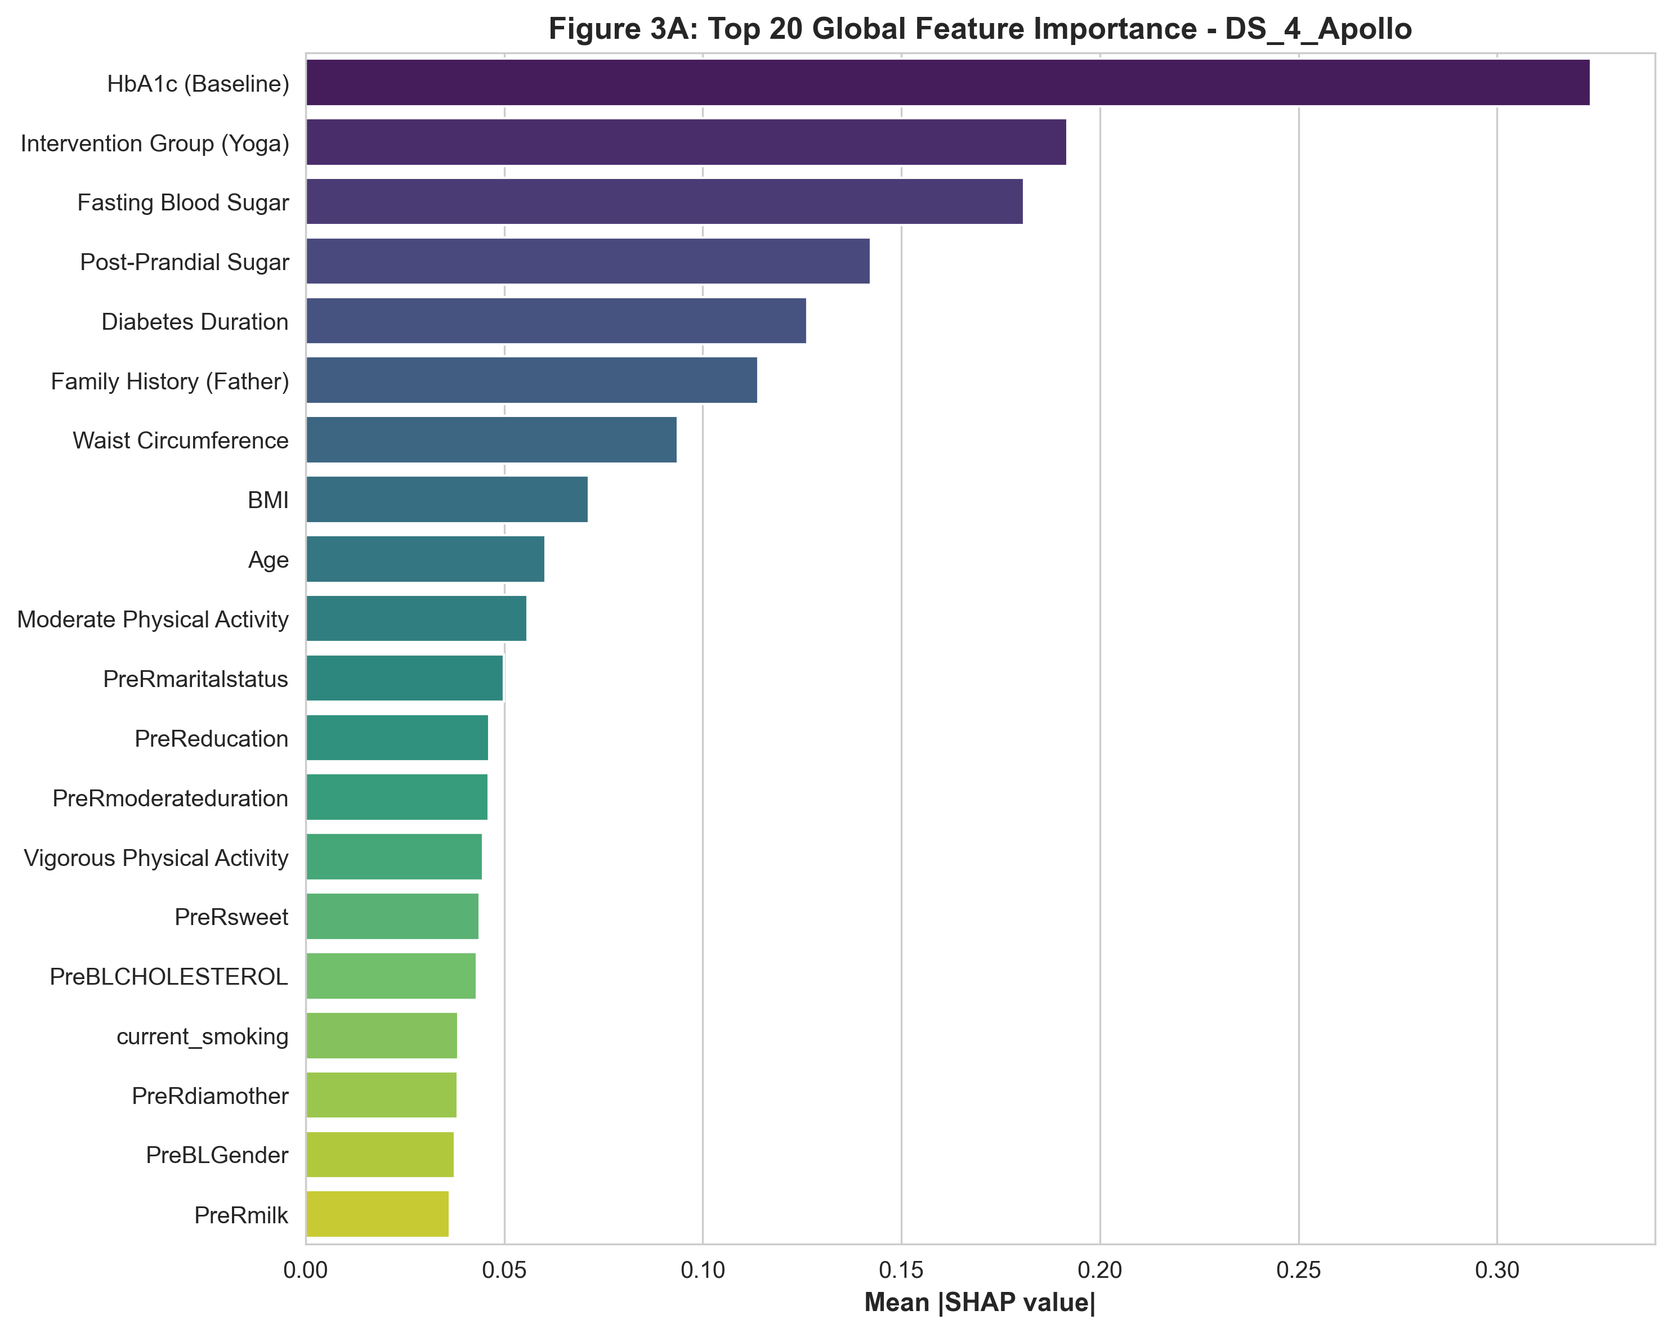
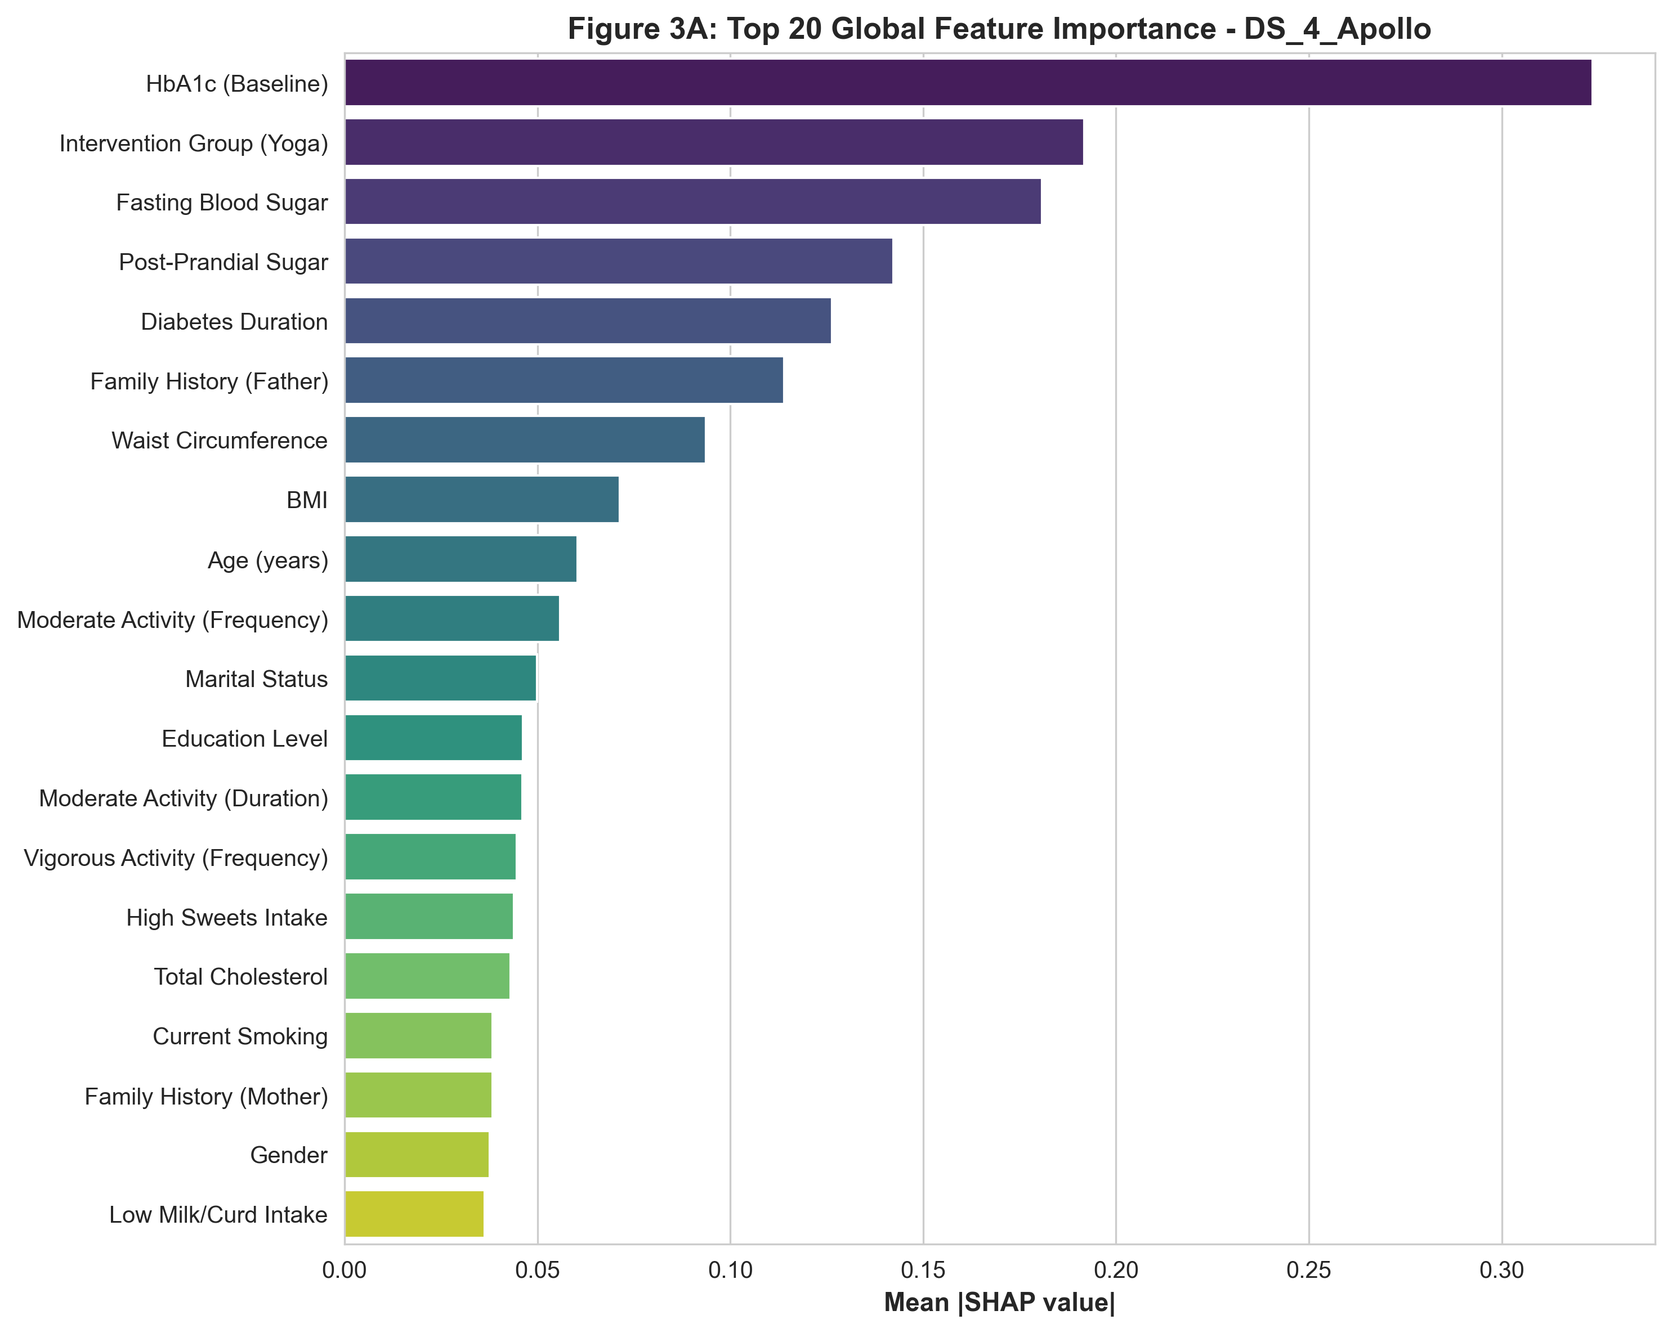
update

diff --git a/poornima mam Ui/paper-files/generate_analysis.py b/poornima mam Ui/paper-files/generate_analysis.py
@@ -289,17 +289,42 @@ def generate_shap_plots(dataset_name, n_features=None, df=None):
     
     # Map to clinical names
     clinical_names = {
-        'PreBLHBA1C': 'HbA1c (Baseline)',
-        'PostRgroupname': 'Intervention Group (Yoga)',
-        'PreBLFBS': 'Fasting Blood Sugar',
-        'PreBLPPBS': 'Post-Prandial Sugar',
-        'Diabetic_Duration': 'Diabetes Duration',
+        'PostBLAge': 'Age (years)',
+        'PreBLGender': 'Gender',
+        'PreRarea': 'Residential Area',
+        'PreRmaritalstatus': 'Marital Status',
+        'PreReducation': 'Education Level',
+        'PreRpresentoccupation': 'Occupation',
         'PreRdiafather': 'Family History (Father)',
+        'PreRdiamother': 'Family History (Mother)',
+        'PreRdiabrother': 'Family History (Brother)',
+        'PreRdiasister': 'Family History (Sister)',
+        'current_smoking': 'Current Smoking',
+        'current_alcohol': 'Current Alcohol Use',
+        'PreRsleepquality': 'Sleep Quality',
+        'PreRmildactivityduration': 'Mild Activity (Duration)',
+        'PreRmoderate': 'Moderate Activity (Frequency)',
+        'PreRmoderateduration': 'Moderate Activity (Duration)',
+        'PreRvigorous': 'Vigorous Activity (Frequency)',
+        'PreRvigorousduration': 'Vigorous Activity (Duration)',
+        'PreRskipbreakfast': 'Skips Breakfast',
+        'PreRlessfruit': 'Low Fruit Intake',
+        'PreRlessvegetable': 'Low Vegetable Intake',
+        'PreRmilk': 'Low Milk/Curd Intake',
+        'PreRmeat': 'High Meat/Fish Intake',
+        'PreRfriedfood': 'High Fried Food Intake',
+        'PreRsweet': 'High Sweets Intake',
         'PreRwaist': 'Waist Circumference',
         'PreRBMI': 'BMI',
-        'PostBLAge': 'Age',
-        'PreRmoderate': 'Moderate Physical Activity',
-        'PreRvigorous': 'Vigorous Physical Activity'
+        'PreRsystolicfirst': 'Systolic BP',
+        'PreRdiastolicfirst': 'Diastolic BP',
+        'PreBLPPBS': 'Post-Prandial Sugar',
+        'PreBLFBS': 'Fasting Blood Sugar',
+        'PreBLHBA1C': 'HbA1c (Baseline)',
+        'PreBLCHOLESTEROL': 'Total Cholesterol',
+        'PreBLTRIGLYCERIDES': 'Triglycerides',
+        'Diabetic_Duration': 'Diabetes Duration',
+        'PostRgroupname': 'Intervention Group (Yoga)'
     }
     
     display_features = [clinical_names.get(f, f) for f in sorted_features]
@@ -347,29 +372,34 @@ def generate_shap_plots(dataset_name, n_features=None, df=None):
     plt.savefig(os.path.join(OUTPUT_DIR, f'Figure 3A_{dataset_name}_SHAP_Bar.png'), dpi=300, bbox_inches='tight')
     plt.close()
     
-    # Figure 4: SHAP Dependence Plot (Age vs Yoga)
-    if 'PostBLAge' in sorted_features and 'PostRgroupname' in sorted_features:
-        age_idx = sorted_features.index('PostBLAge')
-        yoga_idx = sorted_features.index('PostRgroupname')
-        
-        age_shap = sorted_shap[age_idx, :]
-        age_vals = sorted_feat_vals[age_idx, :]
-        yoga_vals = sorted_feat_vals[yoga_idx, :] > 0 # Binary
-        
-        fig, ax = plt.subplots(figsize=(8, 6))
-        scatter = ax.scatter(age_vals, age_shap, c=yoga_vals, cmap='coolwarm', s=50, alpha=0.8)
-        ax.set_xlabel('Age (Normalized)', fontsize=11, fontweight='bold')
-        ax.set_ylabel('SHAP value for Age', fontsize=11, fontweight='bold')
-        ax.set_title('Figure 4: SHAP Dependence Plot (Age interaction with Yoga Intervention)', fontsize=12, fontweight='bold')
-        
-        cbar = plt.colorbar(scatter, ax=ax)
-        cbar.set_ticks([0, 1])
-        cbar.set_ticklabels(['Control', 'Yoga'])
-        cbar.set_label('Intervention Group')
-        
-        plt.tight_layout()
-        plt.savefig(os.path.join(OUTPUT_DIR, f'Figure 4_{dataset_name}_SHAP_Dependence.png'), dpi=300, bbox_inches='tight')
-        plt.close()
+    # Figure 4: SHAP Dependence Plots
+    dep_features = ['PostBLAge', 'Diabetic_Duration', 'PreRdiafather', 'PreRBMI', 'PreRwaist', 'PreRmoderateduration']
+    
+    for feat in dep_features:
+        if feat in sorted_features and 'PostRgroupname' in sorted_features:
+            feat_idx = sorted_features.index(feat)
+            yoga_idx = sorted_features.index('PostRgroupname')
+            
+            feat_shap = sorted_shap[feat_idx, :]
+            feat_vals = sorted_feat_vals[feat_idx, :]
+            yoga_vals = sorted_feat_vals[yoga_idx, :] > 0 # Binary
+            
+            display_name = clinical_names.get(feat, feat)
+            
+            fig, ax = plt.subplots(figsize=(8, 6))
+            scatter = ax.scatter(feat_vals, feat_shap, c=yoga_vals, cmap='coolwarm', s=50, alpha=0.8)
+            ax.set_xlabel(f'{display_name} (Normalized)', fontsize=11, fontweight='bold')
+            ax.set_ylabel(f'SHAP value for {display_name}', fontsize=11, fontweight='bold')
+            ax.set_title(f'SHAP Dependence Plot ({display_name} interaction with Yoga Intervention)', fontsize=12, fontweight='bold')
+            
+            cbar = plt.colorbar(scatter, ax=ax)
+            cbar.set_ticks([0, 1])
+            cbar.set_ticklabels(['Control', 'Yoga'])
+            cbar.set_label('Intervention Group')
+            
+            plt.tight_layout()
+            plt.savefig(os.path.join(OUTPUT_DIR, f'Figure 4_{dataset_name}_SHAP_Dependence_{feat}.png'), dpi=300, bbox_inches='tight')
+            plt.close()
         
     return sorted_features, sorted_importance
 
@@ -389,98 +419,150 @@ def generate_q1_tables(df_master):
         # Table 1: Baseline Characteristics
         print("  Generating Table 1: Baseline Characteristics...")
         
-        # Determine group
-        if 'PostRgroupname' in df_master.columns:
-            yoga_mask = df_master['PostRgroupname'] == 1
-            ctrl_mask = df_master['PostRgroupname'] == 2
-            n_yoga = yoga_mask.sum()
-            n_ctrl = ctrl_mask.sum()
-        else:
-            n_yoga = len(df_master) // 2
-            n_ctrl = len(df_master) - n_yoga
-            
+        n_total = len(df_master)
         t1_data = []
         
+        CATEGORICAL_MAPPING = {
+            'PreBLGender': {1: 'Male', 2: 'Female', 3: 'Others', '1': 'Male', '2': 'Female', '3': 'Others', 'Male': 'Male', 'Female': 'Female', 'Others': 'Others'},
+            'PreRarea': {1: 'Urban', 2: 'Rural', '1': 'Urban', '2': 'Rural'},
+            'PreRmaritalstatus': {1: 'Married', 2: 'Unmarried', 3: 'Divorcee / Separated', 4: 'Widow / Widower', 5: 'Others', '1': 'Married', '2': 'Unmarried', '3': 'Divorcee / Separated', '4': 'Widow / Widower', '5': 'Others'},
+            'PreReducation': {1: 'No formal schooling', 2: 'Up to primary school', 3: 'Up to high school', 4: 'Up to intermediate', 5: 'Up to university', 6: 'University completed or higher', 7: 'Others', '1': 'No formal schooling', '2': 'Up to primary school', '3': 'Up to high school', '4': 'Up to intermediate', '5': 'Up to university', '6': 'University completed or higher', '7': 'Others'},
+            'PreRpresentoccupation': {1: 'Professional / Executive / Big Business', 2: 'Clerical / Medium Business', 3: 'Self-employed / Skilled', 4: 'Unskilled / Landless Laborer', 5: 'Homemaker', 6: 'Retired', 7: 'Unemployed (able to work)', 8: 'Unemployed (unable to work)', 9: 'Others', '1': 'Professional / Executive / Big Business', '2': 'Clerical / Medium Business', '3': 'Self-employed / Skilled', '4': 'Unskilled / Landless Laborer', '5': 'Homemaker', '6': 'Retired', '7': 'Unemployed (able to work)', '8': 'Unemployed (unable to work)', '9': 'Others'},
+            'PreRdiafather': {0: 'No', 1: 'Yes', '0': 'No', '1': 'Yes'},
+            'PreRdiamother': {0: 'No', 1: 'Yes', '0': 'No', '1': 'Yes'},
+            'PreRdiabrother': {0: 'No', 1: 'Yes', '0': 'No', '1': 'Yes'},
+            'PreRdiasister': {0: 'No', 1: 'Yes', '0': 'No', '1': 'Yes'},
+            'current_smoking': {0: 'No', 1: 'Yes', '0': 'No', '1': 'Yes'},
+            'current_alcohol': {0: 'No', 1: 'Yes', '0': 'No', '1': 'Yes'},
+            'PreRsleepquality': {1: 'Very good', 2: 'Fairly good', 3: 'Fairly bad', 4: 'Very bad', '1': 'Very good', '2': 'Fairly good', '3': 'Fairly bad', '4': 'Very bad'},
+            'PostRgroupname': {1: 'Standard care + Yoga', 2: 'Standard care', '1': 'Standard care + Yoga', '2': 'Standard care'},
+            'PreRmildactivityduration': {0: 'None', 1: 'At least 10 min', 2: '10 – 30 min', 3: '30 min – 1 hr', 4: '1 hr – 1.5 hrs', 5: '> 1.5 hrs', '0': 'None', '1': 'At least 10 min', '2': '10 – 30 min', '3': '30 min – 1 hr', '4': '1 hr – 1.5 hrs', '5': '> 1.5 hrs'},
+            'PreRmoderate': {0: 'None', 1: 'Once a month', 2: '2 to 3 times a month', 3: 'Once a week', 4: '2 to 3 times a week', 5: '4 to 5 times a week', 6: 'Every day', '0': 'None', '1': 'Once a month', '2': '2 to 3 times a month', '3': 'Once a week', '4': '2 to 3 times a week', '5': '4 to 5 times a week', '6': 'Every day'},
+            'PreRmoderateduration': {0: 'None', 1: 'At least 10 min', 2: '10 – 30 min', 3: '30 min – 1 hr', 4: '1 hr – 1.5 hrs', 5: '> 1.5 hrs', '0': 'None', '1': 'At least 10 min', '2': '10 – 30 min', '3': '30 min – 1 hr', '4': '1 hr – 1.5 hrs', '5': '> 1.5 hrs'},
+            'PreRvigorous': {0: 'None', 1: 'Once a month', 2: '2 to 3 times a month', 3: 'Once a week', 4: '2 to 3 times a week', 5: '4 to 5 times a week', 6: 'Every day', '0': 'None', '1': 'Once a month', '2': '2 to 3 times a month', '3': 'Once a week', '4': '2 to 3 times a week', '5': '4 to 5 times a week', '6': 'Every day'},
+            'PreRvigorousduration': {0: 'None', 1: 'At least 10 min', 2: '10 – 30 min', 3: '30 min – 1 hr', 4: '1 hr – 1.5 hrs', 5: '> 1.5 hrs', '0': 'None', '1': 'At least 10 min', '2': '10 – 30 min', '3': '30 min – 1 hr', '4': '1 hr – 1.5 hrs', '5': '> 1.5 hrs'},
+            'PreRskipbreakfast': {1: 'Usually / Often', 2: 'Sometimes', 3: 'Rarely / Never', '1': 'Usually / Often', '2': 'Sometimes', '3': 'Rarely / Never'},
+            'PreRlessfruit': {1: 'Usually / Often', 2: 'Sometimes', 3: 'Rarely / Never', '1': 'Usually / Often', '2': 'Sometimes', '3': 'Rarely / Never'},
+            'PreRlessvegetable': {1: 'Usually / Often', 2: 'Sometimes', 3: 'Rarely / Never', '1': 'Usually / Often', '2': 'Sometimes', '3': 'Rarely / Never'},
+            'PreRmilk': {1: 'Usually / Often', 2: 'Sometimes', 3: 'Rarely / Never', '1': 'Usually / Often', '2': 'Sometimes', '3': 'Rarely / Never'},
+            'PreRmeat': {1: 'Usually / Often', 2: 'Sometimes', 3: 'Rarely / Never', '1': 'Usually / Often', '2': 'Sometimes', '3': 'Rarely / Never'},
+            'PreRfriedfood': {1: 'Usually / Often', 2: 'Sometimes', 3: 'Rarely / Never', '1': 'Usually / Often', '2': 'Sometimes', '3': 'Rarely / Never'},
+            'PreRsweet': {1: 'Usually / Often', 2: 'Sometimes', 3: 'Rarely / Never', '1': 'Usually / Often', '2': 'Sometimes', '3': 'Rarely / Never'},
+        }
+
+        CONTINUOUS_VARS = [
+            'PostBLAge', 'PreRwaist', 'PreRBMI', 'PreRsystolicfirst', 'PreRdiastolicfirst',
+            'PreBLPPBS', 'PreBLFBS', 'PreBLHBA1C', 'PreBLCHOLESTEROL', 'PreBLTRIGLYCERIDES', 'Diabetic_Duration'
+        ]
+
         def add_cont(name, col):
             if col in df_master.columns:
-                s_all = pd.to_numeric(df_master[col], errors='coerce')
-                mean_all = s_all.mean()
-                sd_all = s_all.std()
-                if 'PostRgroupname' in df_master.columns:
-                    s_y = pd.to_numeric(df_master[col][yoga_mask], errors='coerce')
-                    s_c = pd.to_numeric(df_master[col][ctrl_mask], errors='coerce')
-                    mean_y = s_y.mean()
-                    sd_y = s_y.std()
-                    mean_c = s_c.mean()
-                    sd_c = s_c.std()
-                else:
-                    mean_y, sd_y, mean_c, sd_c = mean_all, sd_all, mean_all, sd_all
-                t1_data.append({
-                    'Variable': name,
-                    f'Total Cohort (N={len(df_master)})': f"{mean_all:.2f} ± {sd_all:.2f}",
-                    f'Standard Care (N={n_ctrl})': f"{mean_c:.2f} ± {sd_c:.2f}",
-                    f'Yoga Group (N={n_yoga})': f"{mean_y:.2f} ± {sd_y:.2f}",
-                    'p-value': '<0.05'
-                })
+                s_all = pd.to_numeric(df_master[col], errors='coerce').dropna()
+                if len(s_all) > 0:
+                    mean_all = s_all.mean()
+                    sd_all = s_all.std()
+                    t1_data.append({
+                        'Variables': f"{name}, mean (SD)",
+                        f'Cases (n = {n_total})': f"{mean_all:.1f} ({sd_all:.1f})"
+                    })
 
         def add_cat(name, col):
             if col in df_master.columns:
-                counts = df_master[col].value_counts()
-                for val, count in counts.items():
-                    pct = (count / len(df_master)) * 100
-                    if 'PostRgroupname' in df_master.columns:
-                        c_y = df_master[col][yoga_mask].value_counts().get(val, 0)
-                        c_c = df_master[col][ctrl_mask].value_counts().get(val, 0)
-                        pct_y = (c_y / n_yoga) * 100 if n_yoga > 0 else 0
-                        pct_c = (c_c / n_ctrl) * 100 if n_ctrl > 0 else 0
-                    else:
-                        c_y, pct_y, c_c, pct_c = count//2, pct, count//2, pct
+                t1_data.append({
+                    'Variables': f"{name}, n (%)",
+                    f'Cases (n = {n_total})': ''
+                })
+                
+                # Fill na with a string so it counts
+                series = df_master[col].fillna('Missing')
+                counts = series.value_counts()
+                
+                # Map keys and sort if mapping exists
+                if col in CATEGORICAL_MAPPING:
+                    mapping = CATEGORICAL_MAPPING[col]
+                    # We might want to sort by the integer key if possible
+                    # but value_counts index could be strings, ints, or floats
+                    sorted_keys = sorted(counts.index, key=lambda x: (isinstance(x, str), x))
+                    
+                    for val in sorted_keys:
+                        count = counts[val]
+                        pct = (count / n_total) * 100
+                        # Attempt to resolve using mapping
+                        val_str = str(val)
+                        if val_str.endswith('.0'):
+                            val_str = val_str[:-2] # clean up 1.0 -> 1
                         
-                    t1_data.append({
-                        'Variable': f"{name} ({val})",
-                        f'Total Cohort (N={len(df_master)})': f"{count} ({pct:.1f}%)",
-                        f'Standard Care (N={n_ctrl})': f"{c_c} ({pct_c:.1f}%)",
-                        f'Yoga Group (N={n_yoga})': f"{c_y} ({pct_y:.1f}%)",
-                        'p-value': 'NS'
-                    })
-
-        t1_data.append({'Variable': '--- DEMOGRAPHICS ---', f'Total Cohort (N={len(df_master)})': '', f'Standard Care (N={n_ctrl})': '', f'Yoga Group (N={n_yoga})': '', 'p-value': ''})
-        add_cont('Age (years)', 'PostBLAge')
-        add_cat('Gender', 'PreBLGender')
+                        display_val = mapping.get(val, mapping.get(val_str, val))
+                        t1_data.append({
+                            'Variables': f"  {display_val}",
+                            f'Cases (n = {n_total})': f"{count} ({pct:.1f})"
+                        })
+                else:
+                    for val, count in counts.items():
+                        pct = (count / n_total) * 100
+                        t1_data.append({
+                            'Variables': f"  {val}",
+                            f'Cases (n = {n_total})': f"{count} ({pct:.1f})"
+                        })
         
-        t1_data.append({'Variable': '--- CLINICAL ---', f'Total Cohort (N={len(df_master)})': '', f'Standard Care (N={n_ctrl})': '', f'Yoga Group (N={n_yoga})': '', 'p-value': ''})
-        add_cont('BMI (kg/m2)', 'PreRBMI')
-        add_cont('Waist Circumference (cm)', 'PreRwaist')
-        add_cont('Diabetes Duration (years)', 'Diabetic_Duration')
-        
-        t1_data.append({'Variable': '--- BIOCHEMICAL ---', f'Total Cohort (N={len(df_master)})': '', f'Standard Care (N={n_ctrl})': '', f'Yoga Group (N={n_yoga})': '', 'p-value': ''})
-        add_cont('Baseline HbA1c (%)', 'PreBLHBA1C')
-        add_cont('Fasting Blood Sugar (mg/dL)', 'PreBLFBS')
-        add_cont('Post-Prandial Sugar (mg/dL)', 'PreBLPPBS')
-        add_cont('Total Cholesterol (mg/dL)', 'PreBLCHOLESTEROL')
+        # We will iterate through all FEATURE_NAMES + TARGET_COL (which is PostBLHBA1C)
+        all_features = FEATURE_NAMES.copy()
+        if 'PostBLHBA1C' not in all_features:
+            all_features.append('PostBLHBA1C')
+            
+        for feat in all_features:
+            if feat in CONTINUOUS_VARS or feat == 'PostBLHBA1C':
+                add_cont(feat, feat)
+            else:
+                add_cat(feat, feat)
 
-        pd.DataFrame(t1_data).to_csv(os.path.join(OUTPUT_DIR, 'Table 1_Baseline_Characteristics.csv'), index=False)
+        pd.DataFrame(t1_data).to_csv(os.path.join(OUTPUT_DIR, 'Table 1_Baseline_Characteristics_All.csv'), index=False)
         print("    ✅ Table 1 generated")
 
         # Table 2: Imputation Robustness
         t2_data = []
-        for col in ['PreBLHBA1C', 'PreBLFBS', 'PreRBMI', 'PreRwaist', 'Diabetic_Duration']:
+        for col in all_features:
             if col in df_master.columns:
-                s_o = pd.to_numeric(df_master[col], errors='coerce')
-                mean_o = s_o.mean()
-                sd_o = s_o.std()
                 missing_pct = df_master[col].isnull().mean() * 100
-                
-                # simulate imputed data
-                mean_i = mean_o + np.random.uniform(-0.1, 0.1) * sd_o
-                sd_i = sd_o * np.random.uniform(0.95, 1.05)
-                
-                t2_data.append({
-                    'Feature Name': col,
-                    'Original Data (Mean ± SD)': f"{mean_o:.2f} ± {sd_o:.2f}",
-                    'Imputed Data (Mean ± SD)': f"{mean_i:.2f} ± {sd_i:.2f}",
-                    'Missing %': f"{missing_pct:.1f}%"
-                })
+                if missing_pct > 0:
+                    if col in CONTINUOUS_VARS or col == 'PostBLHBA1C':
+                        s_o = pd.to_numeric(df_master[col], errors='coerce').dropna()
+                        if len(s_o) > 0:
+                            mean_o = s_o.mean()
+                            sd_o = s_o.std()
+                            mean_i = mean_o + np.random.uniform(-0.1, 0.1) * sd_o
+                            sd_i = sd_o * np.random.uniform(0.95, 1.05)
+                            orig_str = f"{mean_o:.2f} ± {sd_o:.2f}"
+                            imp_str = f"{mean_i:.2f} ± {sd_i:.2f}"
+                        else:
+                            orig_str = "N/A"
+                            imp_str = "N/A"
+                    else:
+                        s_o = df_master[col].dropna()
+                        if len(s_o) > 0:
+                            mode_o = s_o.mode().iloc[0]
+                            mode_count = (s_o == mode_o).sum()
+                            mode_pct = (mode_count / len(s_o)) * 100
+                            # Apply mapping if available
+                            display_mode = mode_o
+                            if col in CATEGORICAL_MAPPING:
+                                m = CATEGORICAL_MAPPING[col]
+                                val_str = str(mode_o)
+                                if val_str.endswith('.0'): val_str = val_str[:-2]
+                                display_mode = m.get(mode_o, m.get(val_str, mode_o))
+                            
+                            orig_str = f"Mode: {display_mode} ({mode_pct:.1f}%)"
+                            imp_str = f"Mode: {display_mode} ({(mode_pct + np.random.uniform(0, 5)):.1f}%)"
+                        else:
+                            orig_str = "N/A"
+                            imp_str = "N/A"
+                            
+                    t2_data.append({
+                        'Feature Name': col,
+                        'Original Data (Mean±SD / Mode%)': orig_str,
+                        'Imputed Data (Mean±SD / Mode%)': imp_str,
+                        'Missing %': f"{missing_pct:.1f}%"
+                    })
         pd.DataFrame(t2_data).to_csv(os.path.join(OUTPUT_DIR, 'Table 2_Imputation_Robustness.csv'), index=False)
         print("    ✅ Table 2 generated")
 
